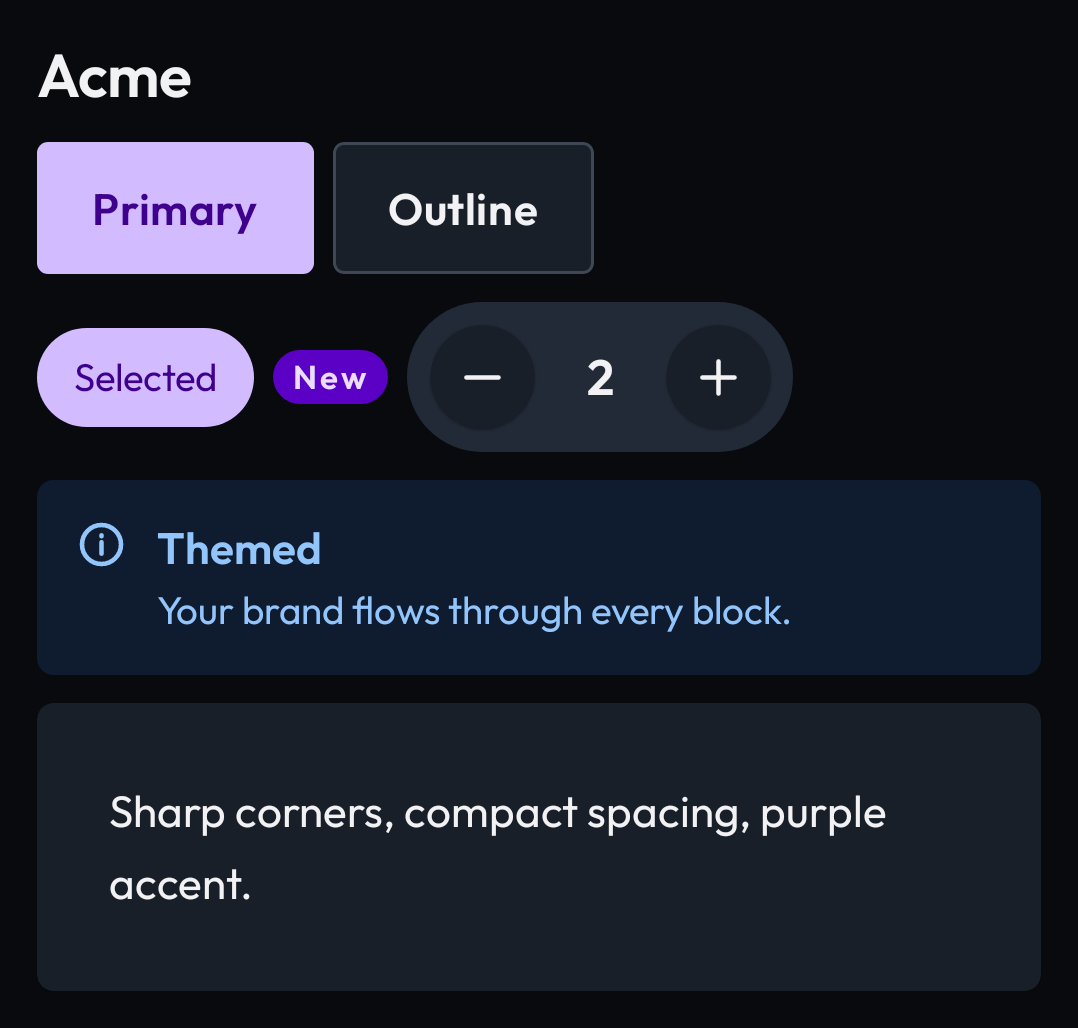
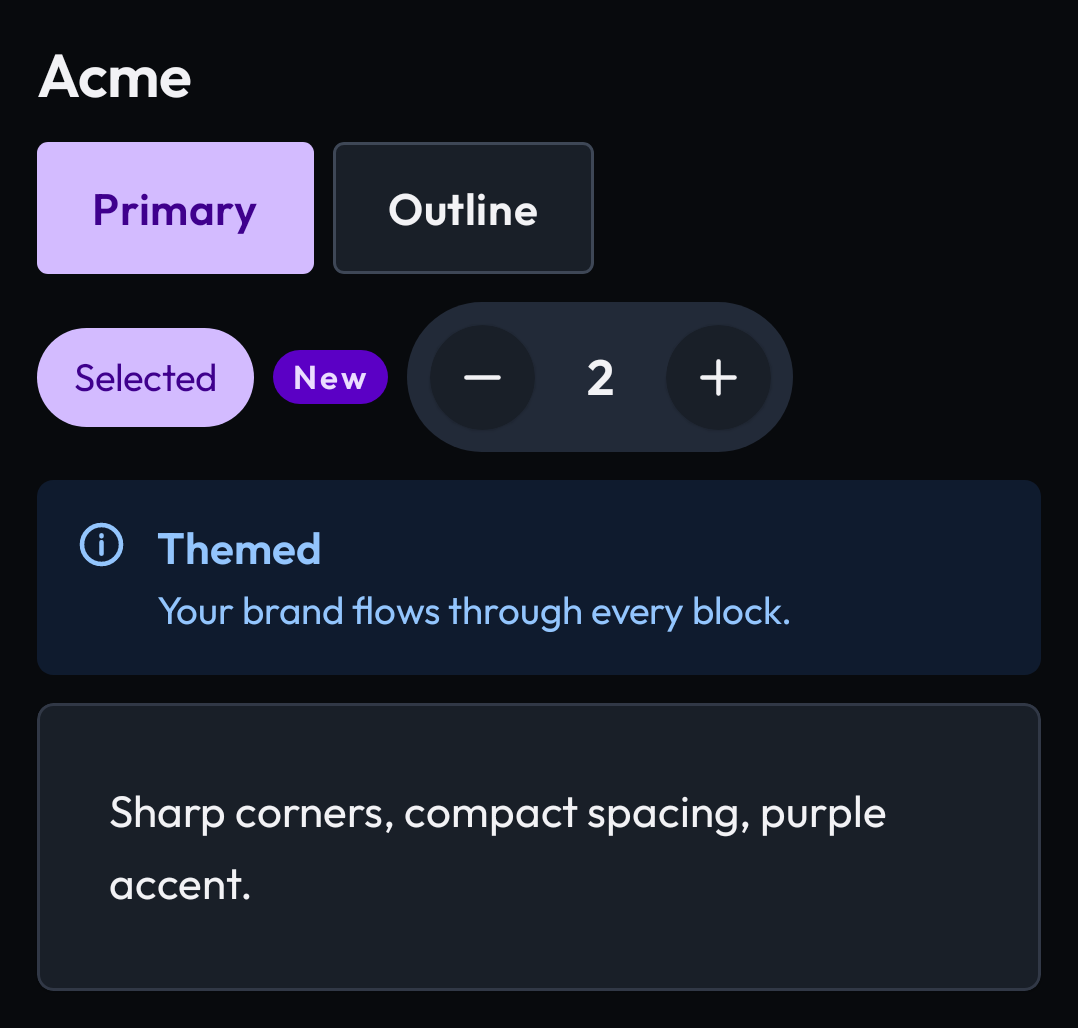
Outline bottom and side sheets and elevated cards in dark themes

Changed region(s): [[0.0306, 0.9339, 0.0612, 0.965], [0.0306, 0.6848, 0.0612, 0.716]]

diff --git a/jenga/src/commonMain/kotlin/io/github/joelkanyi/jenga/component/feedback/JengaSideSheet.kt b/jenga/src/commonMain/kotlin/io/github/joelkanyi/jenga/component/feedback/JengaSideSheet.kt
@@ -1,6 +1,7 @@
 package io.github.joelkanyi.jenga.component.feedback
 
 import androidx.compose.animation.AnimatedVisibility
+import androidx.compose.animation.EnterTransition
 import androidx.compose.animation.core.MutableTransitionState
 import androidx.compose.animation.core.tween
 import androidx.compose.animation.fadeIn
@@ -191,40 +192,19 @@ private fun JengaSideSheetImpl(
     content: LazyListScope.() -> Unit,
 ) {
     val visible = remember { MutableTransitionState(false).apply { targetState = true } }
-    val motion = JengaTheme.motion
-    val isRtl = LocalLayoutDirection.current == LayoutDirection.Rtl
     JengaFullWindowPopup(onDismissRequest = onDismissRequest) {
         Box(modifier = modifier.fillMaxSize()) {
-            AnimatedVisibility(
-                visibleState = visible,
-                enter = fadeIn(tween(motion.durationMedium)),
-            ) {
-                Box(
-                    modifier = Modifier
-                        .fillMaxSize()
-                        .background(JengaTheme.colors.scrim)
-                        .clickable(
-                            interactionSource = remember { MutableInteractionSource() },
-                            indication = null,
-                            onClick = onDismissRequest,
-                        ),
-                )
-            }
+            SideSheetScrim(visible = visible, onClick = onDismissRequest)
             AnimatedVisibility(
                 visibleState = visible,
                 modifier = Modifier.align(Alignment.CenterEnd),
-                enter = slideInHorizontally(tween(motion.durationSlowest, easing = motion.emphasized)) { if (isRtl) -it else it },
+                enter = slideInFromEnd(),
             ) {
                 JengaListSheetLayout(
                     title = title,
                     subtitle = subtitle,
                     footer = footer,
-                    modifier = Modifier
-                        .width(width)
-                        .fillMaxHeight()
-                        .clip(shape)
-                        .background(JengaTheme.colors.surface)
-                        .windowInsetsPadding(WindowInsets.safeDrawing),
+                    modifier = Modifier.sideSheetPanel(width, shape),
                     headerAction = headerAction,
                     titleStyle = titleStyle,
                     subtitleStyle = subtitleStyle,
@@ -238,4 +218,31 @@ private fun JengaSideSheetImpl(
             }
         }
     }
+}
+
+@Composable
+private fun SideSheetScrim(visible: MutableTransitionState<Boolean>, onClick: () -> Unit) {
+    AnimatedVisibility(visibleState = visible, enter = fadeIn(tween(JengaTheme.motion.durationMedium))) {
+        Box(
+            modifier = Modifier
+                .fillMaxSize()
+                .background(JengaTheme.colors.scrim)
+                .clickable(interactionSource = remember { MutableInteractionSource() }, indication = null, onClick = onClick),
+        )
+    }
+}
+
+@Composable
+private fun Modifier.sideSheetPanel(width: Dp, shape: Shape): Modifier = width(width)
+    .fillMaxHeight()
+    .clip(shape)
+    .background(JengaTheme.colors.surface)
+    .overlayOutline(darkThemeHairline(), shape)
+    .windowInsetsPadding(WindowInsets.safeDrawing)
+
+@Composable
+private fun slideInFromEnd(): EnterTransition {
+    val motion = JengaTheme.motion
+    val isRtl = LocalLayoutDirection.current == LayoutDirection.Rtl
+    return slideInHorizontally(tween(motion.durationSlowest, easing = motion.emphasized)) { if (isRtl) -it else it }
 }

diff --git a/jenga/src/androidUnitTest/kotlin/io/github/joelkanyi/jenga/component/card/JengaCardSelectedTest.kt b/jenga/src/androidUnitTest/kotlin/io/github/joelkanyi/jenga/component/card/JengaCardSelectedTest.kt
@@ -1,6 +1,7 @@
 package io.github.joelkanyi.jenga.component.card
 
 import androidx.compose.ui.Modifier
+import androidx.compose.ui.graphics.Color
 import androidx.compose.ui.platform.testTag
 import androidx.compose.ui.semantics.SemanticsProperties
 import androidx.compose.ui.test.SemanticsMatcher
@@ -56,5 +57,22 @@ class JengaCardSelectedTest {
                 assertEquals(JengaTheme.colors.error, JengaProgressDefaults.colors(JengaProgressTone.Error).indicator)
             }
         }
+    }
+
+    @Test
+    fun elevatedCardGetsAnOutlineOnlyInDarkThemes() {
+        var dark = JengaCardColors(Color.Unspecified, Color.Unspecified)
+        var light = JengaCardColors(Color.Unspecified, Color.Unspecified)
+        var darkBorder = Color.Unspecified
+        compose.setContent {
+            JengaTheme(darkTheme = true) {
+                dark = JengaCardDefaults.colors(JengaCardVariant.Elevated)
+                darkBorder = JengaTheme.colors.border
+            }
+            JengaTheme(darkTheme = false) { light = JengaCardDefaults.colors(JengaCardVariant.Elevated) }
+        }
+        compose.waitForIdle()
+        assertEquals(darkBorder, dark.border)
+        assertEquals(Color.Transparent, light.border)
     }
 }

diff --git a/jenga/src/androidMain/kotlin/io/github/joelkanyi/jenga/component/feedback/JengaBottomSheetPreviews.kt b/jenga/src/androidMain/kotlin/io/github/joelkanyi/jenga/component/feedback/JengaBottomSheetPreviews.kt
@@ -4,6 +4,8 @@ import androidx.compose.foundation.background
 import androidx.compose.foundation.layout.Arrangement
 import androidx.compose.foundation.layout.Column
 import androidx.compose.foundation.layout.padding
+import androidx.compose.material3.BottomSheetDefaults
+import androidx.compose.material3.ExperimentalMaterial3Api
 import androidx.compose.runtime.Composable
 import androidx.compose.ui.Alignment
 import androidx.compose.ui.Modifier
@@ -30,6 +32,7 @@ internal fun JengaBottomSheetRtlPreview() {
     JengaTheme { RtlPreview { BottomSheetSurfacePreview() } }
 }
 
+@OptIn(ExperimentalMaterial3Api::class)
 @Composable
 private fun BottomSheetSurfacePreview() {
     Column(
@@ -39,8 +42,9 @@ private fun BottomSheetSurfacePreview() {
     ) {
         Column(
             modifier = Modifier
-                .clip(JengaTheme.shapes.card)
-                .background(JengaTheme.colors.surface),
+                .clip(BottomSheetDefaults.ExpandedShape)
+                .background(JengaTheme.colors.surface)
+                .overlayOutline(darkThemeHairline(), BottomSheetDefaults.ExpandedShape),
             horizontalAlignment = Alignment.CenterHorizontally,
         ) {
             JengaDragHandle()

diff --git a/jenga/src/commonMain/kotlin/io/github/joelkanyi/jenga/component/feedback/JengaBottomSheet.kt b/jenga/src/commonMain/kotlin/io/github/joelkanyi/jenga/component/feedback/JengaBottomSheet.kt
@@ -5,6 +5,7 @@ import androidx.compose.foundation.layout.Box
 import androidx.compose.foundation.layout.ColumnScope
 import androidx.compose.foundation.layout.padding
 import androidx.compose.foundation.layout.size
+import androidx.compose.material3.BottomSheetDefaults
 import androidx.compose.material3.ExperimentalMaterial3Api
 import androidx.compose.material3.ModalBottomSheet
 import androidx.compose.material3.ModalBottomSheetDefaults
@@ -147,7 +148,7 @@ public fun JengaBottomSheet(
         onDismissRequest = {
             if (!sheetState.isVisible) onDismissRequest()
         },
-        modifier = modifier,
+        modifier = modifier.overlayOutline(darkThemeHairline(), BottomSheetDefaults.ExpandedShape),
         sheetState = sheetState.m3State,
         sheetGesturesEnabled = gesturesEnabled,
         containerColor = JengaTheme.colors.surface,

diff --git a/jenga/src/commonMain/kotlin/io/github/joelkanyi/jenga/component/feedback/JengaDialog.kt b/jenga/src/commonMain/kotlin/io/github/joelkanyi/jenga/component/feedback/JengaDialog.kt
@@ -149,7 +149,7 @@ public fun JengaDialog(
     Dialog(onDismissRequest = onDismissRequest) {
         JengaDialogSurface(
             confirmButton = confirmButton,
-            modifier = modifier.dialogOutline(border, shape),
+            modifier = modifier.overlayOutline(border, shape),
             title = title,
             text = text,
             dismissButton = dismissButton,
@@ -238,4 +238,4 @@ internal fun JengaDialogSurface(
     }
 }
 
-internal fun Modifier.dialogOutline(border: BorderStroke?, shape: Shape): Modifier = if (border == null) this else border(border, shape)
+internal fun Modifier.overlayOutline(border: BorderStroke?, shape: Shape): Modifier = if (border == null) this else border(border, shape)

diff --git a/jenga/src/commonMain/kotlin/io/github/joelkanyi/jenga/component/card/JengaCard.kt b/jenga/src/commonMain/kotlin/io/github/joelkanyi/jenga/component/card/JengaCard.kt
@@ -126,7 +126,7 @@ public object JengaCardDefaults {
     public fun colors(variant: JengaCardVariant, selected: Boolean = false): JengaCardColors {
         val c = JengaTheme.colors
         val colors = JengaTheme.components.card?.colors(variant) ?: when (variant) {
-            JengaCardVariant.Elevated -> JengaCardColors(c.surface, Color.Transparent)
+            JengaCardVariant.Elevated -> JengaCardColors(c.surface, if (c.isLight) Color.Transparent else c.border)
             JengaCardVariant.Outlined -> JengaCardColors(c.surface, c.border)
             JengaCardVariant.Filled -> JengaCardColors(c.surfaceVariant, Color.Transparent)
         }

diff --git a/jenga/src/androidMain/kotlin/io/github/joelkanyi/jenga/component/feedback/JengaDialogPreviews.kt b/jenga/src/androidMain/kotlin/io/github/joelkanyi/jenga/component/feedback/JengaDialogPreviews.kt
@@ -36,7 +36,7 @@ private fun DialogShowcase() {
         // Render the dialog surface inline (the Dialog window itself can't be
         // captured in a static screenshot).
         JengaDialogSurface(
-            modifier = Modifier.dialogOutline(JengaDialogDefaults.border, JengaDialogDefaults.shape),
+            modifier = Modifier.overlayOutline(JengaDialogDefaults.border, JengaDialogDefaults.shape),
             title = "Reset device?",
             text = "This clears the cached gate session on this device. You can sign in again anytime.",
             confirmButton = {

diff --git a/jenga/src/androidMain/kotlin/io/github/joelkanyi/jenga/component/feedback/JengaSideSheetPreviews.kt b/jenga/src/androidMain/kotlin/io/github/joelkanyi/jenga/component/feedback/JengaSideSheetPreviews.kt
@@ -47,7 +47,8 @@ private fun JengaSideSheetShowcase() {
                 .width(360.dp)
                 .fillMaxHeight()
                 .clip(JengaSideSheetDefaults.shape)
-                .background(JengaTheme.colors.surface),
+                .background(JengaTheme.colors.surface)
+                .overlayOutline(darkThemeHairline(), JengaSideSheetDefaults.shape),
             headerPadding = JengaSideSheetDefaults.headerPadding,
             fillHeight = true,
         ) {

diff --git a/CHANGELOG.md b/CHANGELOG.md
@@ -12,6 +12,7 @@
  * New: `JengaImageViewer` overload with pages: swipe between images, each zoomed on its own, with a bottom bar that can move to any page.
  * New: `JengaDropdownMenu` draws a 1dp outline in dark themes by default (`JengaDropdownMenuDefaults.border`), so the menu's edge shows on dark screens. Pass `border = null` for none.
  * New: `JengaDialog` (and the date and time picker dialogs) draws the same dark-theme outline (`JengaDialogDefaults.border`); `JengaDialog` takes `border` to change or remove it.
+ * New: in dark themes, `JengaBottomSheet` (and `JengaListSheet`), `JengaSideSheet` and the elevated `JengaCard` draw the same 1dp outline, since shadows and surface edges don't show on dark backgrounds.
  * Fix: a ring `JengaTimelineMarker` now gives its content the ring color by default, so a number inside it reads on light backgrounds.
  * Fix: `JengaBottomSheet` no longer calls `onDismissRequest` on Back when the sheet did not close.
 
